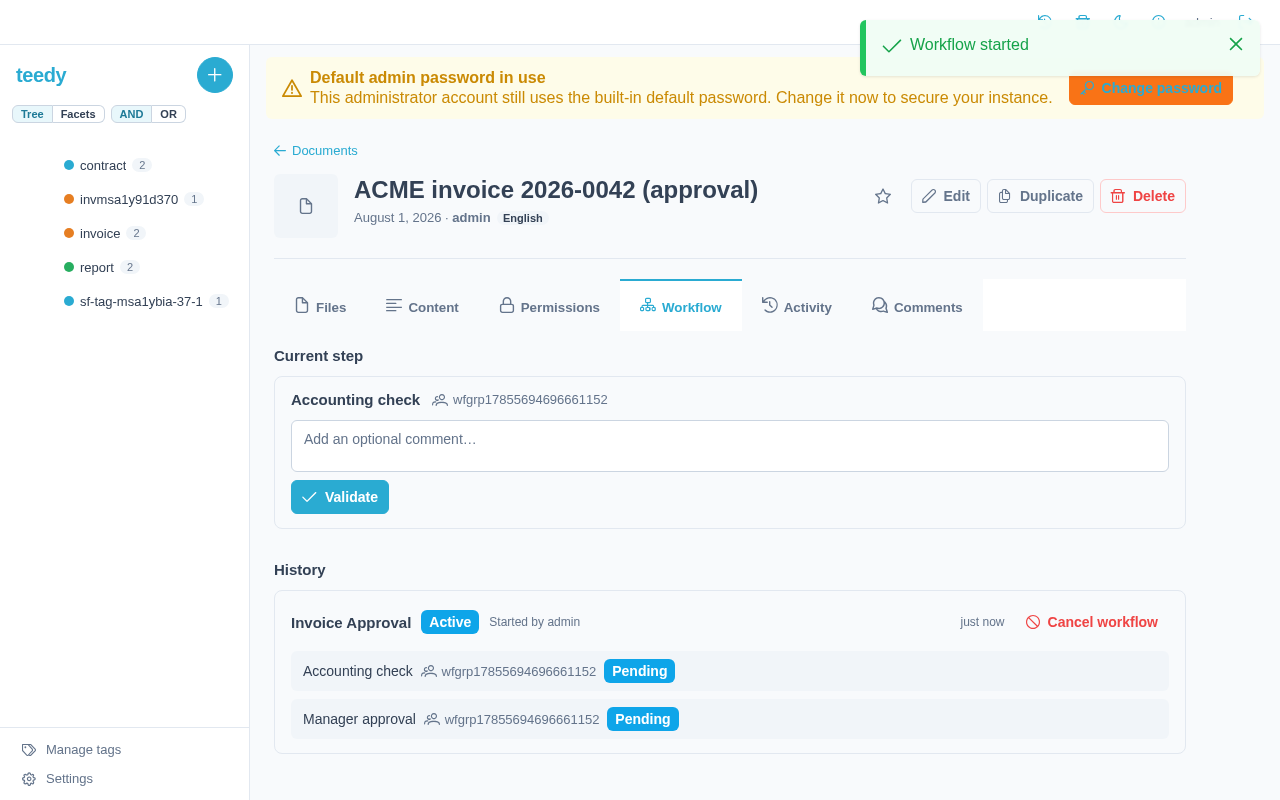
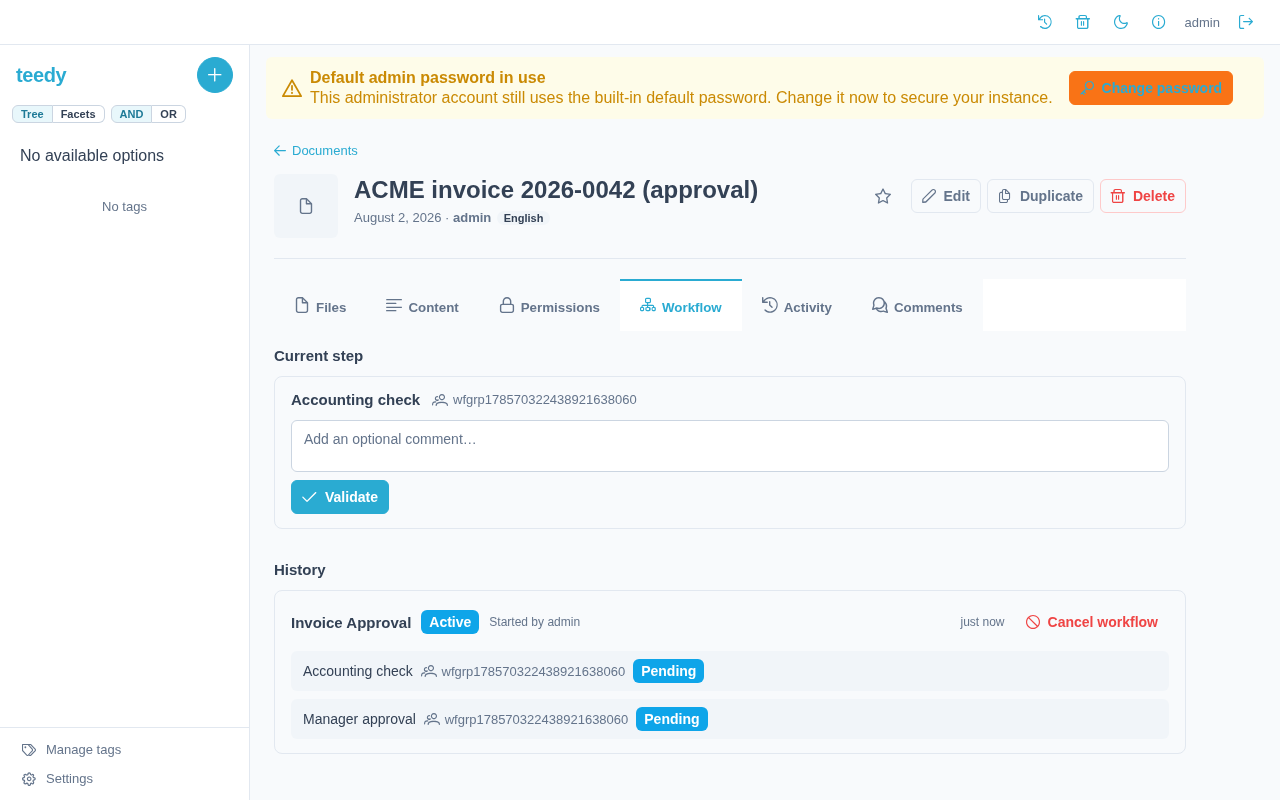
Deflake the popup, activity-filter and workflow-screenshot specs
Three observed CI flake classes, each root-caused before hardening.
Middle-click popup: the server and browser both finish the popup's
navigation but Playwright's frame bookkeeping keeps a pending document
(and sometimes never delivers the page event at all), so the test now
uses bounded re-attempts with in-page readiness probes instead of
navigation-settling matchers, still failing when no tab opens or the
wrong document renders. Activity filter: PrimeVue Select defers its
focus reset by 100ms while refocusing synchronously on hide, so a fast
Home+Enter lands after the reset and commits nothing; the spec now
gates on the vendor's own focus signals and reads the commit back
directly (an app-side commit-on-model-change would be a no-op - the
binding is a plain v-model). Workflow screenshots: the step-panel
selector never matched any template since the spec's introduction, so
every "clipped" shot silently fell back to a full viewport capture;
the capture now clips the real current-step panel, fails loudly when
it is absent, and observes-then-drains the started toast so it cannot
sit in frame. Both workflow images are regenerated accordingly.

Fixes #223
Fixes #227
Fixes #228

diff --git a/docs-web/src/main/webapp/e2e/documents.spec.ts b/docs-web/src/main/webapp/e2e/documents.spec.ts
@@ -1,4 +1,4 @@
-import { test, expect } from './fixtures'
+import { test, expect, type BrowserContext, type Locator, type Page } from './fixtures'
 import {
   unique,
   uniqueTag,
@@ -143,15 +143,45 @@ test('a document with more than 3 tags shows a focusable +N control whose popove
   await expect(panel.getByText(tagNames[0], { exact: true })).toHaveCount(0)
 })
 
+/**
+ * Middle-click `link` and return the tab it opens, retrying the click a bounded number of times.
+ *
+ * #223: on a CPU-contended run, Playwright can lose a popup's navigation signals — two surfaces,
+ * one cause. Sometimes the popup's `page` event never reaches the test at all (measured: still
+ * absent 55s after the click, while the popup's own requests — app bundle, /api/user,
+ * /api/document/<id> — all completed against the server, so waiting longer is not a remedy).
+ * Sometimes the page does arrive but its top-level request is never reported as finished, which
+ * leaves a pending document on the frame; every frame-gated matcher (locator queries,
+ * toHaveURL, waitForLoadState) then queues behind "waiting for … navigation to finish" until it
+ * times out. The popup itself is healthy in both cases: an in-page probe during a stalled run
+ * read document.readyState "complete", a PerformanceNavigationTiming with responseEnd ~7ms and
+ * loadEventEnd ~74ms, the target route hash and the rendered heading.
+ *
+ * A retry is therefore the honest remedy for the first surface (a fresh popup gets fresh
+ * bookkeeping) and evaluate() for the second. Neither weakens the test: a title that is not a
+ * real link opens no tab on ANY attempt, and there is nothing for evaluate() to read.
+ */
+async function middleClickNewTab(context: BrowserContext, link: Locator): Promise<Page> {
+  const attempts = 3
+  for (let attempt = 1; attempt <= attempts; attempt++) {
+    // Registered BEFORE the click so the event cannot be missed between the two.
+    const opened = context.waitForEvent('page', { timeout: 4_000 }).catch(() => null)
+    await link.click({ button: 'middle' })
+    const newTab = await opened
+    if (newTab) return newTab
+  }
+  throw new Error(`middle-clicking the document title opened no new tab in ${attempts} attempts`)
+}
+
 // --- #194: the document title is a REAL link, so the browser's own new-tab
 //     affordances work on it. Middle-click is the one that is purely native (no app
 //     code runs beyond the modifier guard declining to intercept), so it is the
 //     honest end-to-end proof: a genuinely-navigable href reached the browser.
 //
 // REALNESS: the assertion is on the SECOND page the browser context opens and on
-// ITS url + heading. Rendering the title as a <span> (the pre-#194 markup), or
-// preventDefault-ing unconditionally, opens no page at all and the waitForEvent
-// times out — there is no way to satisfy this without a working link.
+// ITS route + heading. Rendering the title as a <span> (the pre-#194 markup), or
+// preventDefault-ing unconditionally, opens no page at all and middleClickNewTab
+// throws — there is no way to satisfy this without a working link.
 test('middle-clicking a document title opens the full view in a new tab (#194)', async ({
   page,
   context,
@@ -170,14 +200,34 @@ test('middle-clicking a document title opens the full view in a new tab (#194)',
   // The href is the document's own full-view route — not "#" or a JS placeholder.
   await expect(link).toHaveAttribute('href', new RegExp(`#/document/view/${docId}$`))
 
-  const [newTab] = await Promise.all([
-    context.waitForEvent('page'),
-    link.click({ button: 'middle' }),
-  ])
-  await newTab.waitForLoadState('domcontentloaded')
-  await expect(newTab).toHaveURL(new RegExp(`#/document/view/${docId}`))
-  await expect(newTab.getByRole('heading', { name: title })).toBeVisible()
-  await newTab.close()
+  const newTab = await middleClickNewTab(context, link)
+
+  // The popup's rendered route and its own heading — the same two facts the URL matcher and the
+  // heading locator asserted before, read out of the live document instead of behind the
+  // navigation barrier (see middleClickNewTab). A poll, because the first evaluate can still
+  // land on the popup's initial about:blank.
+  const popupState = () =>
+    newTab
+      .evaluate(() => ({
+        hash: location.hash,
+        headings: Array.from(document.querySelectorAll('h1')).map((h) => (h.textContent ?? '').trim()),
+      }))
+      .catch(() => ({ hash: '', headings: [] as string[] }))
+  await expect
+    .poll(async () => (await popupState()).hash, {
+      message: "the new tab is on the document's own full-view route",
+    })
+    .toMatch(new RegExp(`#/document/view/${docId}`))
+  await expect
+    .poll(async () => (await popupState()).headings, {
+      message: 'the new tab rendered the document view for THIS document',
+    })
+    .toContain(title)
+
+  // Close whatever the middle clicks opened (a retried attempt can leave a second tab).
+  for (const openTab of context.pages()) {
+    if (openTab !== page) await openTab.close()
+  }
 
   // The originating list did NOT navigate and did NOT open the slide-over — a middle
   // click must not be treated as the plain-click "open slide-over" gesture.

diff --git a/docs-web/src/main/webapp/e2e/docs-screenshots.spec.ts b/docs-web/src/main/webapp/e2e/docs-screenshots.spec.ts
@@ -331,7 +331,9 @@ test('workflow editor, a running route, and the act buttons', async ({ page, req
   await expect(stepCards).toHaveCount(2)
   await configureStep(page, stepCards.nth(1), { name: 'Manager approval', type: 'Approve', groupName })
 
-  // Capture the filled editor BEFORE saving (both steps visible with types+targets).
+  // Capture the filled editor BEFORE saving (both steps visible with types+targets). Nothing in
+  // this flow raises a toast — the group is seeded over the API and the editor only toasts on
+  // Save, which happens after this shot — so there is nothing to drain here.
   await page.waitForLoadState('networkidle')
   await shootViewport(page, 'workflow-editor')
 
@@ -354,23 +356,41 @@ test('workflow editor, a running route, and the act buttons', async ({ page, req
   // one to start, so pick the first rather than tripping strict mode on the duplicate.
   await page.getByRole('option', { name: modelName, exact: true }).first().click()
   await page.getByRole('button', { name: 'Start', exact: true }).click()
-  // DURABLE-STATE instead of the transient "Workflow started" toast: the route now renders
-  // the Current-step panel with the first (Accounting check / VALIDATE) step as the current
-  // step. This is a single document's workflow view (one current step), so no strict-mode
-  // concern here.
+  // The success toast (DocumentViewWorkflow.vue:67, life 2000ms) parks over the top-right corner
+  // and was baked into the committed workflow-pending.png. Waiting for it to be GONE is only
+  // meaningful once it has been HERE: handleStart awaits its refetch before adding the toast, so
+  // the Current-step panel below can render first and a bare "no toast" check would pass on a
+  // toast that has not been enqueued yet — and then pop into frame during the shot. Observe it,
+  // then drain it. (Toasts are the only overlay in this flow; the second shot further down adds
+  // no interaction of its own, so this one drain covers both captures.)
+  const startedToast = page.locator('.p-toast-message').filter({ hasText: 'Workflow started' })
+  await expect(startedToast).toHaveCount(1)
+  // DURABLE-STATE instead of that transient toast: the route now renders the Current-step panel
+  // with the first (Accounting check / VALIDATE) step as the current step. This is a single
+  // document's workflow view (one current step), so no strict-mode concern here.
   await expect(page.getByRole('heading', { name: 'Current step' })).toBeVisible()
   await expect(page.locator('.wf-step-name')).toHaveText('Accounting check')
+  // Transitions are killed in beforeEach, so the toast leaves the DOM as soon as its life
+  // expires; no toast of any kind may be in the frame of either shot.
+  await expect(page.locator('.p-toast-message')).toHaveCount(0)
   await page.waitForLoadState('networkidle')
   await shootViewport(page, 'workflow-pending')
 
-  // The act buttons + comment field on the pending step. The VALIDATE step shows a
-  // Validate button and a comment box; capture the current-step panel.
-  const stepPanel = page.locator('.wf-current-step, .wf-step-actions').first()
-  if (await stepPanel.count()) {
-    await shootElement(page, stepPanel, 'workflow-actions')
-  } else {
-    await shootViewport(page, 'workflow-actions')
-  }
+  // The act buttons + comment field on the pending step, clipped to the panel that
+  // docs/workflows.md's alt text describes: "the current-step panel with an optional comment
+  // field and the Validate button". That is `.wf-current` (DocumentViewWorkflow.vue), which
+  // wraps the step name/assignee (`.wf-current-main`) and the act controls (`.wf-act`).
+  //
+  // #228: the pre-fix selector named `.wf-current-step, .wf-step-actions` — neither class exists
+  // in any template, so `count()` was always 0 and every run silently fell back to a viewport
+  // shot, i.e. workflow-actions.png was a second copy of workflow-pending.png. There is no
+  // fallback any more: this spec asserts the UI on every run (the write is what is gated on
+  // E2E_UPDATE_SCREENSHOTS), so a missing panel must FAIL rather than quietly widen the frame.
+  const stepPanel = page.locator('.wf-current')
+  await expect(stepPanel).toBeVisible()
+  await expect(stepPanel.locator('.wf-comment')).toBeVisible()
+  await expect(stepPanel.getByRole('button', { name: 'Validate', exact: true })).toBeVisible()
+  await shootElement(page, stepPanel, 'workflow-actions')
 })
 
 async function configureStep(

diff --git a/docs-web/src/main/webapp/e2e/activity.spec.ts b/docs-web/src/main/webapp/e2e/activity.spec.ts
@@ -188,14 +188,37 @@ test('#113 the event-type filter can be cleared to all rows with the keyboard', 
   await page.getByRole('option', { name: 'Updated', exact: true }).click()
   await expect(typeCells.filter({ hasText: 'Created' })).toHaveCount(0)
 
+  // #227: that pointer selection blurs the control, and PrimeVue's Select.onBlur defers
+  // `focused = false; focusedOptionIndex = -1` by 100ms while its hide() refocuses the control
+  // synchronously — so the reset lands ~100ms later on a control that is focused again, and
+  // wipes the roving option focus with it. Recorded timeline of a failing run (ms):
+  // focusout 1080, refocus 1082, Enter/open 1134, Home 1166 (roving focus moves to "All event
+  // types"), reset 1182, Enter 1185 -> with no focused option PrimeVue selects NOTHING and just
+  // closes the list, so the previous filter survives the keyboard clear. The root's `p-focus`
+  // class is bound to that same flag, so its removal is the vendor's own proof that the deferred
+  // reset has already run: gate the keyboard sequence on it and nothing is left pending to land
+  // mid-sequence (no further blur happens before the commit).
+  await expect(page.locator('.activity-type-filter')).not.toHaveClass(/(^|\s)p-focus(\s|$)/)
+
   // KEYBOARD CLEAR: focus the combobox, open it, move to the first option
   // ("All types") and select it — no pointer, no clear icon.
+  const allTypes = page.getByRole('option', { name: 'All event types', exact: true })
   await combo.focus()
   await expect(combo).toBeFocused()
   await combo.press('Enter')
-  await expect(page.getByRole('option', { name: 'All event types', exact: true })).toBeVisible()
+  await expect(allTypes).toBeVisible()
   await combo.press('Home')
+  // Enter commits whichever option PrimeVue currently marks as focused, so pin that handoff
+  // rather than racing it. `data-p-focused` is the readable form here: aria-activedescendant is
+  // rendered only while the component's own focus flag is true, and the reset above leaves it
+  // false even though the control holds DOM focus.
+  await expect(allTypes).toHaveAttribute('data-p-focused', 'true')
   await combo.press('Enter')
+
+  // #227: the COMMIT itself, read back from the combobox before any downstream effect, so a
+  // keystroke that commits nothing (or the previous selection) is named here instead of
+  // surfacing as a missing row further down.
+  await expect(combo).toHaveText('All event types')
 
   // Every row returns, including the Created row the filter had hidden.
   await expect(typeCells.filter({ hasText: 'Created' }).first()).toBeVisible()
